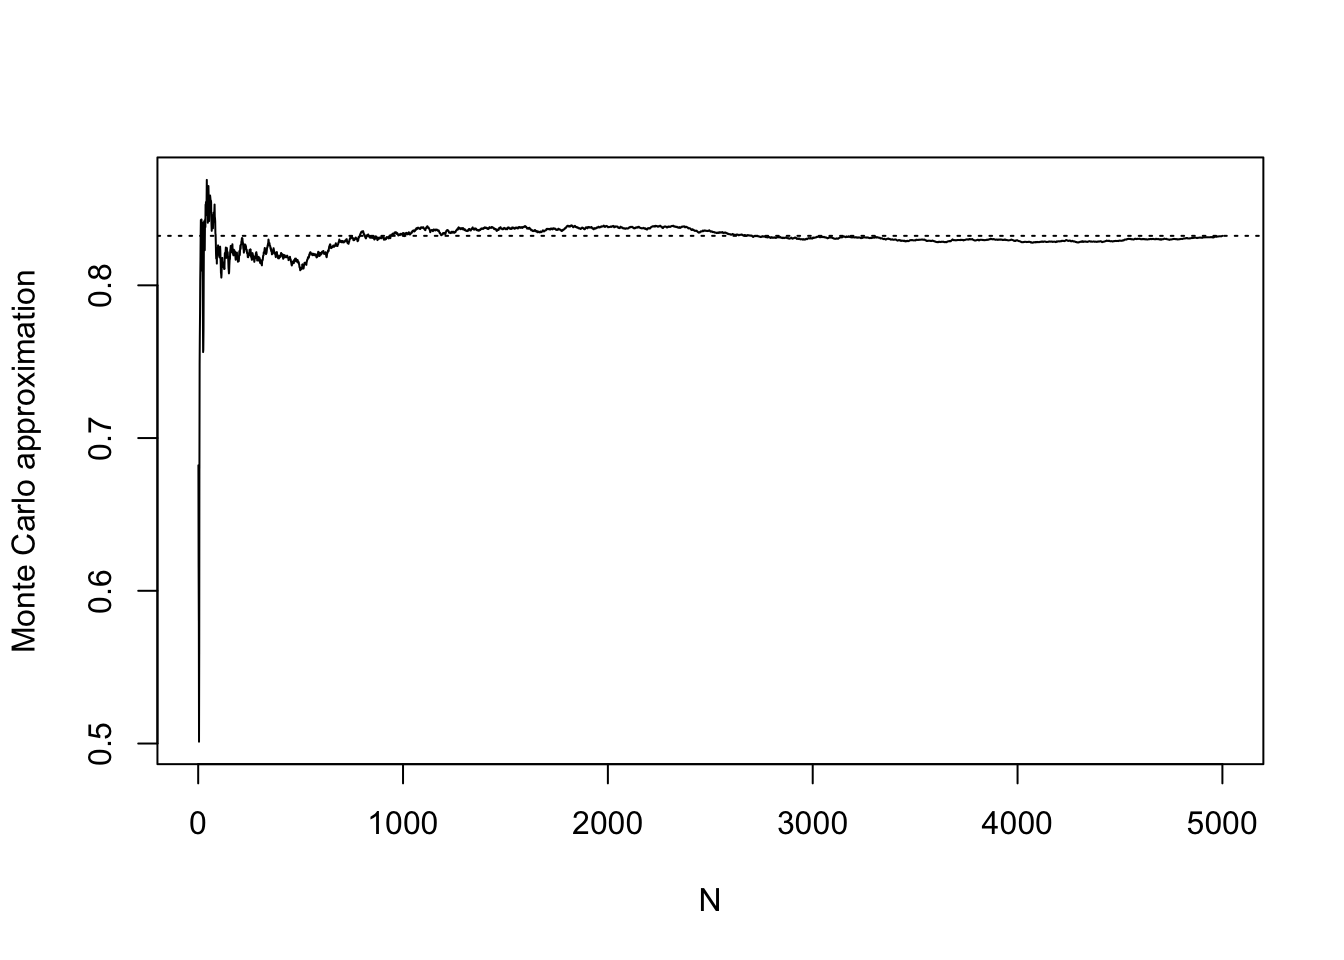
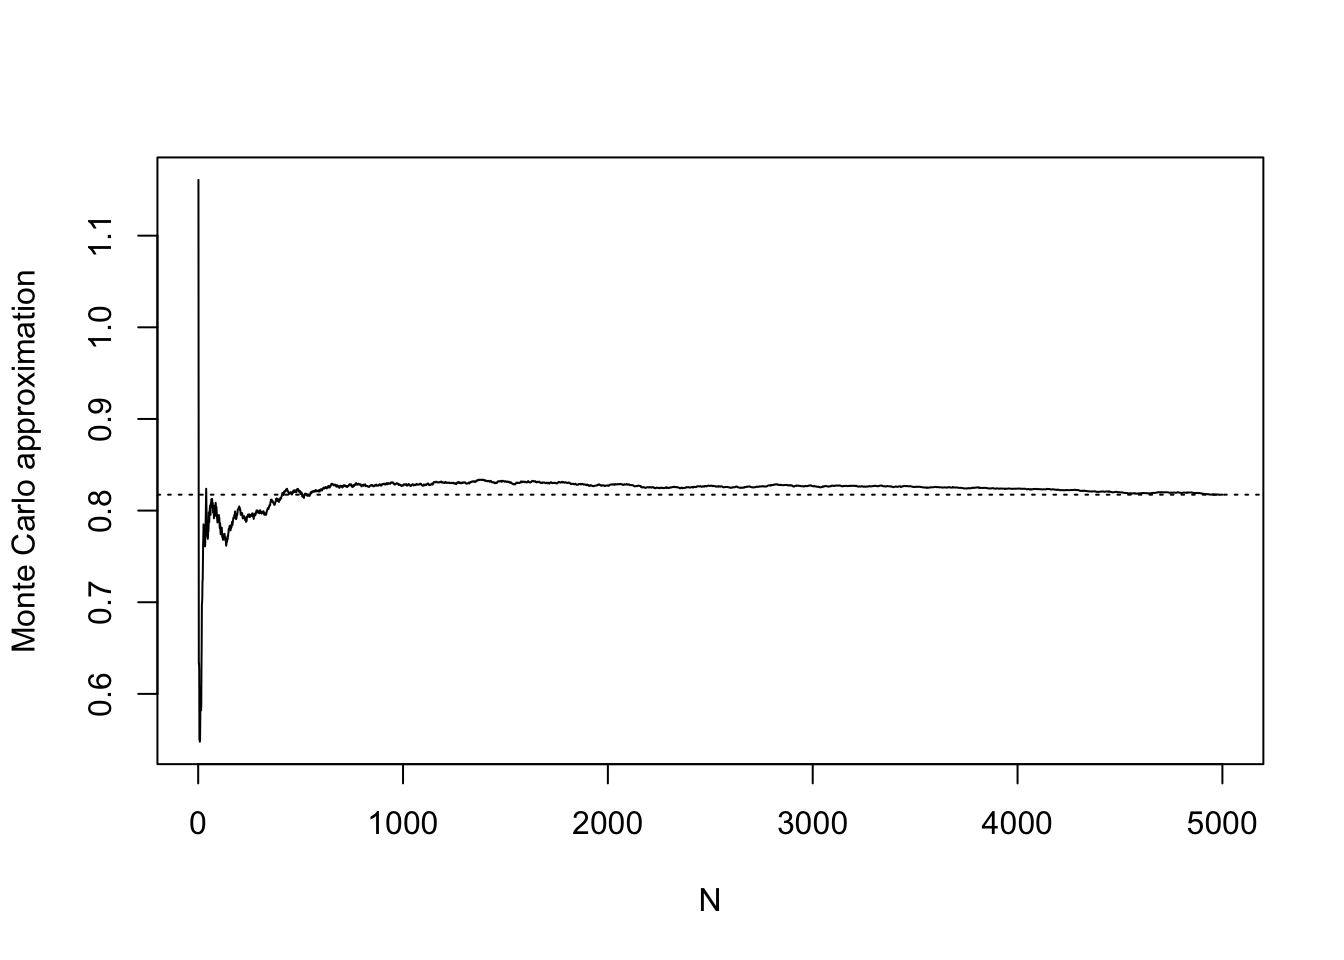
Add files via upload

diff --git a/compstat/R_forloop.html b/compstat/R_forloop.html
@@ -590,6 +590,121 @@ b_k  2^k + b_{k-1}  10^{k-1}\dots + b_1 2^1 + b_0  2^0.
 </section>
 <section id="read-code" class="level3">
 <h3 class="anchored" data-anchor-id="read-code">Read code</h3>
+<ol type="1">
+<li>Figure out what this function is computing:</li>
+</ol>
+<div class="cell">
+<div class="sourceCode cell-code" id="cb26"><pre class="sourceCode r code-with-copy"><code class="sourceCode r"><span id="cb26-1"><a href="#cb26-1" aria-hidden="true" tabindex="-1"></a>ncm <span class="ot">&lt;-</span> <span class="cf">function</span>(n,m){</span>
+<span id="cb26-2"><a href="#cb26-2" aria-hidden="true" tabindex="-1"></a>  </span>
+<span id="cb26-3"><a href="#cb26-3" aria-hidden="true" tabindex="-1"></a>  <span class="cf">if</span>(m <span class="sc">&gt;</span> n) <span class="fu">return</span>(<span class="dv">0</span>)</span>
+<span id="cb26-4"><a href="#cb26-4" aria-hidden="true" tabindex="-1"></a>  <span class="cf">if</span>(m <span class="sc">==</span> <span class="dv">0</span>) <span class="fu">return</span>(<span class="dv">1</span>) <span class="co"># note that after a conditional return(), we don't need an "else", because the function will finish executing when it hits a return()</span></span>
+<span id="cb26-5"><a href="#cb26-5" aria-hidden="true" tabindex="-1"></a>  </span>
+<span id="cb26-6"><a href="#cb26-6" aria-hidden="true" tabindex="-1"></a>  val <span class="ot">&lt;-</span> <span class="dv">1</span></span>
+<span id="cb26-7"><a href="#cb26-7" aria-hidden="true" tabindex="-1"></a>  <span class="cf">for</span>(i <span class="cf">in</span> <span class="dv">1</span><span class="sc">:</span>m){</span>
+<span id="cb26-8"><a href="#cb26-8" aria-hidden="true" tabindex="-1"></a>    </span>
+<span id="cb26-9"><a href="#cb26-9" aria-hidden="true" tabindex="-1"></a>    val <span class="ot">&lt;-</span> val<span class="sc">*</span>(n<span class="sc">-</span>i<span class="sc">+</span><span class="dv">1</span>)<span class="sc">/</span>i</span>
+<span id="cb26-10"><a href="#cb26-10" aria-hidden="true" tabindex="-1"></a>    </span>
+<span id="cb26-11"><a href="#cb26-11" aria-hidden="true" tabindex="-1"></a>  }</span>
+<span id="cb26-12"><a href="#cb26-12" aria-hidden="true" tabindex="-1"></a>  </span>
+<span id="cb26-13"><a href="#cb26-13" aria-hidden="true" tabindex="-1"></a>  <span class="fu">return</span>(val)</span>
+<span id="cb26-14"><a href="#cb26-14" aria-hidden="true" tabindex="-1"></a></span>
+<span id="cb26-15"><a href="#cb26-15" aria-hidden="true" tabindex="-1"></a>}</span>
+<span id="cb26-16"><a href="#cb26-16" aria-hidden="true" tabindex="-1"></a></span>
+<span id="cb26-17"><a href="#cb26-17" aria-hidden="true" tabindex="-1"></a><span class="fu">ncm</span>(<span class="dv">15</span>,<span class="dv">3</span>)</span></code><button title="Copy to Clipboard" class="code-copy-button"><i class="bi"></i></button></pre></div>
+<div class="cell-output cell-output-stdout">
+<pre><code>[1] 455</code></pre>
+</div>
+</div>
+<ol start="2" type="1">
+<li>Study the following code carefully and describe what it is doing.</li>
+</ol>
+<div class="cell">
+<div class="sourceCode cell-code" id="cb28"><pre class="sourceCode r code-with-copy"><code class="sourceCode r"><span id="cb28-1"><a href="#cb28-1" aria-hidden="true" tabindex="-1"></a>exams <span class="ot">&lt;-</span> <span class="fu">matrix</span>(<span class="fu">c</span>(<span class="dv">20</span>,<span class="dv">23</span>,<span class="dv">19</span>,</span>
+<span id="cb28-2"><a href="#cb28-2" aria-hidden="true" tabindex="-1"></a>                  <span class="dv">21</span>,<span class="dv">24</span>,<span class="dv">22</span>,</span>
+<span id="cb28-3"><a href="#cb28-3" aria-hidden="true" tabindex="-1"></a>                  <span class="dv">23</span>,<span class="dv">13</span>,<span class="dv">18</span>,</span>
+<span id="cb28-4"><a href="#cb28-4" aria-hidden="true" tabindex="-1"></a>                  <span class="dv">20</span>,<span class="dv">20</span>,<span class="dv">21</span>),<span class="at">nrow =</span> <span class="dv">4</span>,<span class="at">byrow =</span> T)</span>
+<span id="cb28-5"><a href="#cb28-5" aria-hidden="true" tabindex="-1"></a><span class="fu">colnames</span>(exams) <span class="ot">&lt;-</span> <span class="fu">c</span>(<span class="st">"exam1"</span>,<span class="st">"exam2"</span>,<span class="st">"final"</span>)</span>
+<span id="cb28-6"><a href="#cb28-6" aria-hidden="true" tabindex="-1"></a>exams</span></code><button title="Copy to Clipboard" class="code-copy-button"><i class="bi"></i></button></pre></div>
+<div class="cell-output cell-output-stdout">
+<pre><code>     exam1 exam2 final
+[1,]    20    23    19
+[2,]    21    24    22
+[3,]    23    13    18
+[4,]    20    20    21</code></pre>
+</div>
+<div class="sourceCode cell-code" id="cb30"><pre class="sourceCode r code-with-copy"><code class="sourceCode r"><span id="cb30-1"><a href="#cb30-1" aria-hidden="true" tabindex="-1"></a>exr <span class="ot">&lt;-</span> <span class="cf">function</span>(x){</span>
+<span id="cb30-2"><a href="#cb30-2" aria-hidden="true" tabindex="-1"></a>  </span>
+<span id="cb30-3"><a href="#cb30-3" aria-hidden="true" tabindex="-1"></a>  <span class="cf">if</span>((x[<span class="dv">1</span>] <span class="sc">&lt;</span> x[<span class="dv">3</span>])<span class="sc">|</span>(x[<span class="dv">2</span>] <span class="sc">&lt;</span> x[<span class="dv">3</span>])){</span>
+<span id="cb30-4"><a href="#cb30-4" aria-hidden="true" tabindex="-1"></a>    </span>
+<span id="cb30-5"><a href="#cb30-5" aria-hidden="true" tabindex="-1"></a>    <span class="cf">if</span>(x[<span class="dv">1</span>] <span class="sc">&lt;=</span> x[<span class="dv">2</span>]){</span>
+<span id="cb30-6"><a href="#cb30-6" aria-hidden="true" tabindex="-1"></a>      </span>
+<span id="cb30-7"><a href="#cb30-7" aria-hidden="true" tabindex="-1"></a>      x[<span class="dv">1</span>] <span class="ot">&lt;-</span> x[<span class="dv">3</span>]</span>
+<span id="cb30-8"><a href="#cb30-8" aria-hidden="true" tabindex="-1"></a>      </span>
+<span id="cb30-9"><a href="#cb30-9" aria-hidden="true" tabindex="-1"></a>    } <span class="cf">else</span> {</span>
+<span id="cb30-10"><a href="#cb30-10" aria-hidden="true" tabindex="-1"></a>      </span>
+<span id="cb30-11"><a href="#cb30-11" aria-hidden="true" tabindex="-1"></a>      x[<span class="dv">2</span>] <span class="ot">&lt;-</span> x[<span class="dv">3</span>]</span>
+<span id="cb30-12"><a href="#cb30-12" aria-hidden="true" tabindex="-1"></a>      </span>
+<span id="cb30-13"><a href="#cb30-13" aria-hidden="true" tabindex="-1"></a>    }</span>
+<span id="cb30-14"><a href="#cb30-14" aria-hidden="true" tabindex="-1"></a>    </span>
+<span id="cb30-15"><a href="#cb30-15" aria-hidden="true" tabindex="-1"></a>  }</span>
+<span id="cb30-16"><a href="#cb30-16" aria-hidden="true" tabindex="-1"></a>  </span>
+<span id="cb30-17"><a href="#cb30-17" aria-hidden="true" tabindex="-1"></a>  <span class="fu">return</span>(x)</span>
+<span id="cb30-18"><a href="#cb30-18" aria-hidden="true" tabindex="-1"></a>  </span>
+<span id="cb30-19"><a href="#cb30-19" aria-hidden="true" tabindex="-1"></a>}</span>
+<span id="cb30-20"><a href="#cb30-20" aria-hidden="true" tabindex="-1"></a></span>
+<span id="cb30-21"><a href="#cb30-21" aria-hidden="true" tabindex="-1"></a>exams_new <span class="ot">&lt;-</span> exams</span>
+<span id="cb30-22"><a href="#cb30-22" aria-hidden="true" tabindex="-1"></a><span class="cf">for</span>(i <span class="cf">in</span> <span class="dv">1</span><span class="sc">:</span><span class="fu">nrow</span>(exams)){</span>
+<span id="cb30-23"><a href="#cb30-23" aria-hidden="true" tabindex="-1"></a>  </span>
+<span id="cb30-24"><a href="#cb30-24" aria-hidden="true" tabindex="-1"></a>  exams_new[i,] <span class="ot">&lt;-</span> <span class="fu">exr</span>(exams[i,])</span>
+<span id="cb30-25"><a href="#cb30-25" aria-hidden="true" tabindex="-1"></a>  </span>
+<span id="cb30-26"><a href="#cb30-26" aria-hidden="true" tabindex="-1"></a>}</span>
+<span id="cb30-27"><a href="#cb30-27" aria-hidden="true" tabindex="-1"></a></span>
+<span id="cb30-28"><a href="#cb30-28" aria-hidden="true" tabindex="-1"></a>exams_new</span></code><button title="Copy to Clipboard" class="code-copy-button"><i class="bi"></i></button></pre></div>
+<div class="cell-output cell-output-stdout">
+<pre><code>     exam1 exam2 final
+[1,]    20    23    19
+[2,]    22    24    22
+[3,]    23    18    18
+[4,]    21    20    21</code></pre>
+</div>
+</div>
+<ol start="3" type="1">
+<li>Try to figure out what the plot will look like before running the code:</li>
+</ol>
+<div class="cell">
+<div class="sourceCode cell-code" id="cb32"><pre class="sourceCode r code-with-copy"><code class="sourceCode r"><span id="cb32-1"><a href="#cb32-1" aria-hidden="true" tabindex="-1"></a><span class="fu">plot</span>(<span class="cn">NA</span>,</span>
+<span id="cb32-2"><a href="#cb32-2" aria-hidden="true" tabindex="-1"></a>     <span class="at">asp =</span> <span class="dv">1</span>, </span>
+<span id="cb32-3"><a href="#cb32-3" aria-hidden="true" tabindex="-1"></a>     <span class="at">bty =</span> <span class="st">"n"</span>,</span>
+<span id="cb32-4"><a href="#cb32-4" aria-hidden="true" tabindex="-1"></a>     <span class="at">xaxt =</span> <span class="st">"n"</span>,</span>
+<span id="cb32-5"><a href="#cb32-5" aria-hidden="true" tabindex="-1"></a>     <span class="at">yaxt =</span> <span class="st">"n"</span>,</span>
+<span id="cb32-6"><a href="#cb32-6" aria-hidden="true" tabindex="-1"></a>     <span class="at">xlab =</span> <span class="st">""</span>,</span>
+<span id="cb32-7"><a href="#cb32-7" aria-hidden="true" tabindex="-1"></a>     <span class="at">ylab =</span> <span class="st">""</span>,</span>
+<span id="cb32-8"><a href="#cb32-8" aria-hidden="true" tabindex="-1"></a>     <span class="at">xlim =</span> <span class="fu">c</span>(<span class="sc">-</span><span class="dv">1</span>,<span class="dv">1</span>),</span>
+<span id="cb32-9"><a href="#cb32-9" aria-hidden="true" tabindex="-1"></a>     <span class="at">ylim =</span> <span class="fu">c</span>(<span class="sc">-</span><span class="dv">1</span>,<span class="dv">1</span>))</span>
+<span id="cb32-10"><a href="#cb32-10" aria-hidden="true" tabindex="-1"></a></span>
+<span id="cb32-11"><a href="#cb32-11" aria-hidden="true" tabindex="-1"></a>n <span class="ot">&lt;-</span> <span class="dv">8</span></span>
+<span id="cb32-12"><a href="#cb32-12" aria-hidden="true" tabindex="-1"></a>th <span class="ot">&lt;-</span> <span class="fu">seq</span>(<span class="dv">0</span>,<span class="dv">2</span><span class="sc">*</span>pi,<span class="at">by=</span><span class="dv">2</span><span class="sc">*</span>pi<span class="sc">/</span>n) <span class="sc">-</span> pi<span class="sc">/</span>n</span>
+<span id="cb32-13"><a href="#cb32-13" aria-hidden="true" tabindex="-1"></a><span class="cf">for</span>(i <span class="cf">in</span> <span class="dv">1</span><span class="sc">:</span>n){</span>
+<span id="cb32-14"><a href="#cb32-14" aria-hidden="true" tabindex="-1"></a>  </span>
+<span id="cb32-15"><a href="#cb32-15" aria-hidden="true" tabindex="-1"></a>  th_poly <span class="ot">&lt;-</span> <span class="fu">seq</span>(th[i],th[i<span class="sc">+</span><span class="dv">1</span>],<span class="at">by=</span>pi<span class="sc">/</span><span class="dv">180</span>)</span>
+<span id="cb32-16"><a href="#cb32-16" aria-hidden="true" tabindex="-1"></a>  x_poly <span class="ot">&lt;-</span> <span class="fu">c</span>(<span class="dv">0</span>,<span class="fu">cos</span>(th_poly))</span>
+<span id="cb32-17"><a href="#cb32-17" aria-hidden="true" tabindex="-1"></a>  y_poly <span class="ot">&lt;-</span> <span class="fu">c</span>(<span class="dv">0</span>,<span class="fu">sin</span>(th_poly))</span>
+<span id="cb32-18"><a href="#cb32-18" aria-hidden="true" tabindex="-1"></a>  </span>
+<span id="cb32-19"><a href="#cb32-19" aria-hidden="true" tabindex="-1"></a>  <span class="fu">polygon</span>(x_poly,y_poly,<span class="at">col=</span>i)</span>
+<span id="cb32-20"><a href="#cb32-20" aria-hidden="true" tabindex="-1"></a>    </span>
+<span id="cb32-21"><a href="#cb32-21" aria-hidden="true" tabindex="-1"></a>}</span></code><button title="Copy to Clipboard" class="code-copy-button"><i class="bi"></i></button></pre></div>
+</div>
+<!-- 4.  -->
+<!-- ```{r} -->
+<!-- piapp <- function(N){ -->
+<!--   x <- seq(-1+1/N,1-1/N,by = 1/N) -->
+<!--   x <- x[-length(x)] -->
+<!--   y <- 1/sqrt(1 - x^2) # use simpson's quadrature? -->
+<!--   val <- sum(y)/N -->
+<!--   return(val) -->
+<!-- } -->
+<!-- piapp(4000000) -->
+<!-- ``` -->
 
 
 </section>

diff --git a/compstat/R_manipulatedata.html b/compstat/R_manipulatedata.html
@@ -534,15 +534,15 @@ pre > code.sourceCode > span > a:first-child::before { text-decoration: underlin
 <span id="cb18-3"><a href="#cb18-3" aria-hidden="true" tabindex="-1"></a>                       <span class="at">Response =</span> <span class="fu">rnorm</span>(<span class="dv">8</span>))</span>
 <span id="cb18-4"><a href="#cb18-4" aria-hidden="true" tabindex="-1"></a>toy_data</span></code><button title="Copy to Clipboard" class="code-copy-button"><i class="bi"></i></button></pre></div>
 <div class="cell-output cell-output-stdout">
-<pre><code>  Subject Observation   Response
-1       1           1  0.5457775
-2       1           2  2.2594080
-3       1           3 -0.5005702
-4       1           4 -2.2369141
-5       2           1  0.9554624
-6       2           2  0.9579228
-7       2           3 -0.9290037
-8       2           4 -1.2061189</code></pre>
+<pre><code>  Subject Observation    Response
+1       1           1 -0.39348662
+2       1           2 -0.66806884
+3       1           3  0.59943443
+4       1           4 -1.17141374
+5       2           1 -1.64336378
+6       2           2  0.09826547
+7       2           3 -0.85587823
+8       2           4 -0.81985487</code></pre>
 </div>
 </div>
 <p>If we want instead to represent the data in a table having one row for each subject and four columns giving the four observations, we can obtain it with the <code>reshape()</code> function as follows:</p>
@@ -555,9 +555,9 @@ pre > code.sourceCode > span > a:first-child::before { text-decoration: underlin
 <span id="cb20-6"><a href="#cb20-6" aria-hidden="true" tabindex="-1"></a>                <span class="at">new.row.names =</span> <span class="dv">1</span><span class="sc">:</span><span class="dv">2</span>) <span class="co"># keep the row names from getting wacky</span></span>
 <span id="cb20-7"><a href="#cb20-7" aria-hidden="true" tabindex="-1"></a>wide</span></code><button title="Copy to Clipboard" class="code-copy-button"><i class="bi"></i></button></pre></div>
 <div class="cell-output cell-output-stdout">
-<pre><code>  Subject Response 1 Response 2 Response 3 Response 4
-1       1  0.5457775  2.2594080 -0.5005702  -2.236914
-2       2  0.9554624  0.9579228 -0.9290037  -1.206119</code></pre>
+<pre><code>  Subject Response 1  Response 2 Response 3 Response 4
+1       1 -0.3934866 -0.66806884  0.5994344 -1.1714137
+2       2 -1.6433638  0.09826547 -0.8558782 -0.8198549</code></pre>
 </div>
 </div>
 <p>Now let’s try to make the table we want for the Table Rock 50k data. We’ll use the <code>reshape()</code> function, treating the place column as the “subject”:</p>
@@ -595,15 +595,15 @@ pre > code.sourceCode > span > a:first-child::before { text-decoration: underlin
 <span id="cb24-8"><a href="#cb24-8" aria-hidden="true" tabindex="-1"></a>                <span class="at">new.row.names =</span> <span class="dv">1</span><span class="sc">:</span><span class="dv">8</span>) <span class="co"># keep the row names from getting wacky</span></span>
 <span id="cb24-9"><a href="#cb24-9" aria-hidden="true" tabindex="-1"></a>long</span></code><button title="Copy to Clipboard" class="code-copy-button"><i class="bi"></i></button></pre></div>
 <div class="cell-output cell-output-stdout">
-<pre><code>  Subject Observation   Response
-1       1           1  0.5457775
-2       2           1  0.9554624
-3       1           2  2.2594080
-4       2           2  0.9579228
-5       1           3 -0.5005702
-6       2           3 -0.9290037
-7       1           4 -2.2369141
-8       2           4 -1.2061189</code></pre>
+<pre><code>  Subject Observation    Response
+1       1           1 -0.39348662
+2       2           1 -1.64336378
+3       1           2 -0.66806884
+4       2           2  0.09826547
+5       1           3  0.59943443
+6       2           3 -0.85587823
+7       1           4 -1.17141374
+8       2           4 -0.81985487</code></pre>
 </div>
 </div>
 <p>We see that things are sorted in a different way, but it is the same data set as the original one.</p>

diff --git a/compstat/R_MCsim.html b/compstat/R_MCsim.html
@@ -352,7 +352,7 @@ window.Quarto = {
 <span id="cb1-4"><a href="#cb1-4" aria-hidden="true" tabindex="-1"></a>mgX <span class="ot">&lt;-</span> <span class="fu">mean</span>(gX)</span>
 <span id="cb1-5"><a href="#cb1-5" aria-hidden="true" tabindex="-1"></a>mgX</span></code><button title="Copy to Clipboard" class="code-copy-button"><i class="bi"></i></button></pre></div>
 <div class="cell-output cell-output-stdout">
-<pre><code>[1] 0.832401</code></pre>
+<pre><code>[1] 0.817367</code></pre>
 </div>
 </div>
 <p>Try running this several times with smaller and larger choice of <span class="math inline">\(N\)</span>. You’ll notice that the result becomes more stable for larger value of <span class="math inline">\(N\)</span>.</p>
@@ -388,7 +388,7 @@ window.Quarto = {
 <span id="cb4-4"><a href="#cb4-4" aria-hidden="true" tabindex="-1"></a>mX <span class="ot">&lt;-</span> <span class="fu">mean</span>(X)</span>
 <span id="cb4-5"><a href="#cb4-5" aria-hidden="true" tabindex="-1"></a>mX</span></code><button title="Copy to Clipboard" class="code-copy-button"><i class="bi"></i></button></pre></div>
 <div class="cell-output cell-output-stdout">
-<pre><code>[1] 0.1964</code></pre>
+<pre><code>[1] 0.1896</code></pre>
 </div>
 <div class="sourceCode cell-code" id="cb6"><pre class="sourceCode r code-with-copy"><code class="sourceCode r"><span id="cb6-1"><a href="#cb6-1" aria-hidden="true" tabindex="-1"></a><span class="co"># make a plot</span></span>
 <span id="cb6-2"><a href="#cb6-2" aria-hidden="true" tabindex="-1"></a>mX_seq <span class="ot">&lt;-</span> <span class="fu">cumsum</span>(X)<span class="sc">/</span><span class="fu">c</span>(<span class="dv">1</span><span class="sc">:</span>N)</span>
@@ -475,10 +475,10 @@ F  = \frac{\operatorname{MS}_{\operatorname{Treatment}}}{\operatorname{MS}_{\ope
 <span id="cb9-20"><a href="#cb9-20" aria-hidden="true" tabindex="-1"></a>}</span>
 <span id="cb9-21"><a href="#cb9-21" aria-hidden="true" tabindex="-1"></a><span class="fu">mean</span>(X)                                       <span class="co"># the Type I error rate</span></span></code><button title="Copy to Clipboard" class="code-copy-button"><i class="bi"></i></button></pre></div>
 <div class="cell-output cell-output-stdout">
-<pre><code>[1] 0.0316</code></pre>
+<pre><code>[1] 0.0312</code></pre>
 </div>
 </div>
-<p>The Monte Carlo simulation approximated the Type I error rate of the test in this setup as 0.0316, somewhat lower than the nominal 0.05. We refer to 0.05 as the “nominal” size, because this is the advertised or “named” size of the test, whereas the test <em>actually</em> performs with a lower Type I error rate (not necessarily a good thing, because of the power/size trade-off), suggesting that the test is unduly conservative (overly reluctant to reject) in this setup.</p>
+<p>The Monte Carlo simulation approximated the Type I error rate of the test in this setup as 0.0312, somewhat lower than the nominal 0.05. We refer to 0.05 as the “nominal” size, because this is the advertised or “named” size of the test, whereas the test <em>actually</em> performs with a lower Type I error rate (not necessarily a good thing, because of the power/size trade-off), suggesting that the test is unduly conservative (overly reluctant to reject) in this setup.</p>
 
 
 </section>

diff --git a/compstat/R_statfunctions.html b/compstat/R_statfunctions.html
@@ -366,15 +366,15 @@ window.Quarto = {
 <div class="cell">
 <div class="sourceCode cell-code" id="cb1"><pre class="sourceCode r code-with-copy"><code class="sourceCode r"><span id="cb1-1"><a href="#cb1-1" aria-hidden="true" tabindex="-1"></a><span class="fu">runif</span>(<span class="dv">50</span>) <span class="co"># generate 50 pseudo-random Uniform(0,1) realizations</span></span></code><button title="Copy to Clipboard" class="code-copy-button"><i class="bi"></i></button></pre></div>
 <div class="cell-output cell-output-stdout">
-<pre><code> [1] 0.494447696 0.232708909 0.570814109 0.182058817 0.738420896 0.430687738
- [7] 0.655980433 0.150253761 0.455457645 0.444603506 0.222979339 0.258886219
-[13] 0.084191210 0.552090601 0.447824290 0.616287756 0.714350680 0.439020634
-[19] 0.019589534 0.951813713 0.670881838 0.009959074 0.148447842 0.570898660
-[25] 0.297348426 0.145022606 0.461842848 0.349559874 0.175959149 0.584081292
-[31] 0.814341366 0.417709522 0.688393209 0.854589170 0.221742617 0.396779256
-[37] 0.902135320 0.245289780 0.774952783 0.446239380 0.403853233 0.597947059
-[43] 0.785460275 0.590501688 0.395858448 0.938564443 0.075798048 0.002077924
-[49] 0.147477811 0.369583311</code></pre>
+<pre><code> [1] 0.638291609 0.428446064 0.106888941 0.938503791 0.362126607 0.746664378
+ [7] 0.826058471 0.763407068 0.922454086 0.141806474 0.075744815 0.951819521
+[13] 0.295922302 0.569156884 0.932403828 0.397496642 0.890958357 0.822374194
+[19] 0.336101011 0.210039582 0.550584924 0.780334499 0.614289051 0.112273464
+[25] 0.973320044 0.912888495 0.182602506 0.987316203 0.396846226 0.233968418
+[31] 0.814567968 0.087766016 0.621287584 0.482099481 0.486310921 0.332062885
+[37] 0.713302406 0.456343901 0.432675849 0.679334964 0.404715940 0.209897726
+[43] 0.316128543 0.523802189 0.560329258 0.512829235 0.253668634 0.005167751
+[49] 0.889745246 0.239437473</code></pre>
 </div>
 </div>
 <p>Once one has obtained a random realization on the interval <span class="math inline">\((0,1)\)</span>, one can transform it into a realization of a random variable from any other distribution by passing it through the quantile function of that distribution. Specifically, suppose <span class="math inline">\(X\)</span> is a random variable with cdf given by <span class="math display">\[

diff --git a/compstat/about.html b/compstat/about.html
@@ -283,7 +283,7 @@ pre > code.sourceCode > span > a:first-child::before { text-decoration: underlin
 
 
 <p>About this site</p>
-<div id="5813f6c5" class="cell" data-execution_count="1">
+<div id="d6dd07d5" class="cell" data-execution_count="1">
 <div class="sourceCode cell-code" id="cb1"><pre class="sourceCode python code-with-copy"><code class="sourceCode python"><span id="cb1-1"><a href="#cb1-1" aria-hidden="true" tabindex="-1"></a><span class="dv">1</span> <span class="op">+</span> <span class="dv">1</span></span></code><button title="Copy to Clipboard" class="code-copy-button"><i class="bi"></i></button></pre></div>
 <div class="cell-output cell-output-display" data-execution_count="1">
 <pre><code>2</code></pre>

diff --git a/compstat/Python_objects.html b/compstat/Python_objects.html
@@ -289,7 +289,7 @@ pre > code.sourceCode > span > a:first-child::before { text-decoration: underlin
 </header>
 
 
-<div id="b2e78339" class="cell" data-execution_count="1">
+<div id="4ef8ae32" class="cell" data-execution_count="1">
 <div class="sourceCode cell-code" id="cb1"><pre class="sourceCode python code-with-copy"><code class="sourceCode python"><span id="cb1-1"><a href="#cb1-1" aria-hidden="true" tabindex="-1"></a><span class="dv">2</span><span class="op">+</span><span class="dv">2</span></span></code><button title="Copy to Clipboard" class="code-copy-button"><i class="bi"></i></button></pre></div>
 <div class="cell-output cell-output-display" data-execution_count="1">
 <pre><code>4</code></pre>
